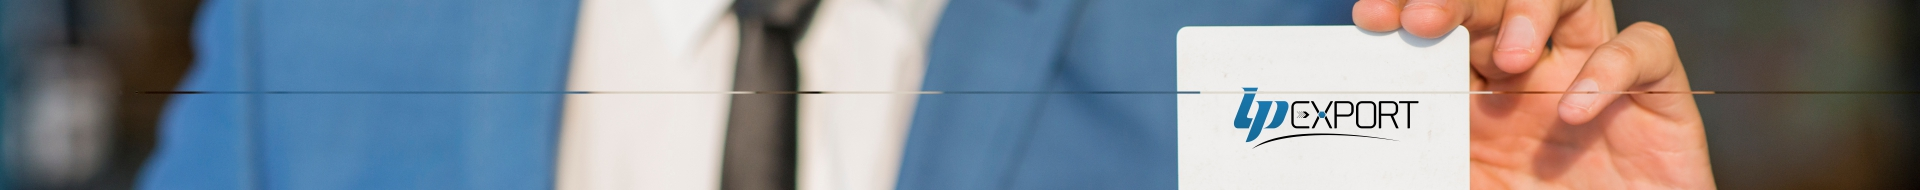
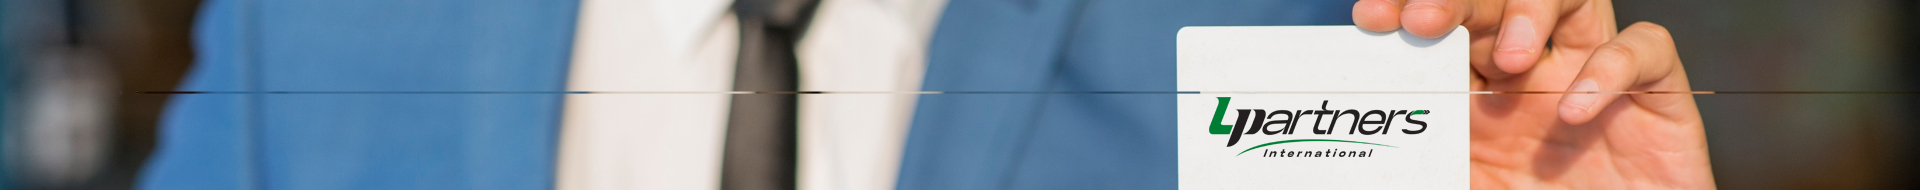
last updates

Changed region(s): [[0.625, 0.4474, 0.75, 0.7895], [0.6562, 0.7895, 0.7188, 0.8421]]

diff --git a/css/style.css b/css/style.css
@@ -1487,7 +1487,7 @@ article #galeria a:hover .over { opacity: 1; }
     border-radius: 50%;
     height: 70px;
     width: 70px;
-    margin: 0 auto 130px;
+    margin: 0 auto 60px;
     text-align: center;
     padding: 17px 10px 0;
     background: #FFF;
@@ -3081,7 +3081,7 @@ footer .logo-footer{width: 180px;}
 
     .header-top{display: none;}
     .waypoint{opacity: 1}
-    .quax-assinatura {border-bottom: 45px solid #007d35;}
+    .quax-assinatura {border-bottom: 15px solid #007d35;}
 
     h1{font-size: 24px; margin: 10px 0; line-height: 28px; letter-spacing: 3px;}
     h2{font-size: 17px; line-height: 25px;}
@@ -3370,7 +3370,8 @@ footer .logo-footer{width: 180px;}
 
     /* FOOTER */
 
-    footer{text-align: center; margin-bottom: 15px;}
+    /* footer{text-align: center; margin-bottom: 15px;} */
+    footer{text-align: center; margin-bottom: 0px;}
     footer .logo-footer{margin: 20px 0;}
     footer .social{position: relative; margin: 70px auto 0;}
     footer h3{margin-bottom: 15px; margin-top: 15px; }

diff --git a/js/main.js b/js/main.js
@@ -172,7 +172,7 @@ jQuery(document).ready(function($)
 				$('header .nav-menu li .sub-produtos').css({'height':'0'});
 				$(this).removeClass('is-active-sub');
 			}else{
-				$('header .nav-menu li .sub-produtos').css({'height':'228'});
+				$('header .nav-menu li .sub-produtos').css({'height':'272'});
 				$(this).addClass('is-active-sub');
 			}
 		});

diff --git a/template/produtos.php b/template/produtos.php
@@ -77,8 +77,13 @@ get_header(); ?>
 							</div>
 						</a>
 						<a href="<?php echo HTTP; ?>produtos/lamb/<?php echo $lang; ?>" title="<?php echo $_lang[$lang]['cordeiro']; ?>">
-							<div class="card-icon <?php echo ($categoria=="lamb"?"active":""); ?>" style="padding-top: 10px;">
+							<div style="padding-top: 15px;" class="card-icon <?php echo ($categoria=="lamb"?"active":""); ?>">
 								<img src="<?php echo HTTP; ?>img/icon-cordeiro.png">
+							</div>
+						</a>
+						<a href="<?php echo HTTP; ?>produtos/turkey/<?php echo $lang; ?>" title="<?php echo $_lang[$lang]['peru']; ?>">
+							<div style="padding-top: 12px;" class="card-icon <?php echo ($categoria=="turkey"?"active":""); ?>">
+								<img src="<?php echo HTTP; ?>img/icon-peru.png">
 							</div>
 						</a>
 					</div>
@@ -183,6 +188,7 @@ get_header(); ?>
 		<div class="wrap">
 
 			<h1 class="waypoint animation_bottom"><?php echo $_lang[$lang]['nossos_produtos']; ?></h1>
+			<p class="has-text-centered waypoint animation_bottom" > <?php echo $_lang[$lang]['melhores_cortes']; ?></p>
 			<br><br>
 			<div class="columns">
 				<div class="column waypoint animation_right">
@@ -191,8 +197,6 @@ get_header(); ?>
 							<img src="<?php echo HTTP; ?>img/icon-beef.png">
 						</div>
 						<h2><?php echo $_lang[$lang]['boi']; ?></h2>
-						<hr>
-						<div class="description"><?php echo $_lang[$lang]['melhores_cortes']; ?></div>
 						<div class="has-text-centered">
 							<div class="botao"><?php echo $_lang[$lang]['ver_mais']; ?></div>
 						</div>
@@ -204,8 +208,6 @@ get_header(); ?>
 							<img src="<?php echo HTTP; ?>img/icon-poltry.png">
 						</div>
 						<h2><?php echo $_lang[$lang]['frango']; ?></h2>
-						<hr>
-						<div class="description"><?php echo $_lang[$lang]['melhores_cortes']; ?></div>
 						<div class="has-text-centered">
 							<div class="botao"><?php echo $_lang[$lang]['ver_mais']; ?></div>
 						</div>
@@ -217,8 +219,6 @@ get_header(); ?>
 							<img src="<?php echo HTTP; ?>img/icon-pork.png">
 						</div>
 						<h2><?php echo $_lang[$lang]['porco']; ?></h2>
-						<hr>
-						<div class="description"><?php echo $_lang[$lang]['melhores_cortes']; ?></div>
 						<div class="has-text-centered">
 							<div class="botao"><?php echo $_lang[$lang]['ver_mais']; ?></div>
 						</div>
@@ -230,8 +230,6 @@ get_header(); ?>
 							<img src="<?php echo HTTP; ?>img/icon-fish.png">
 						</div>
 						<h2><?php echo $_lang[$lang]['peixe']; ?></h2>
-						<hr>
-						<div class="description"><?php echo $_lang[$lang]['melhores_cortes']; ?></div>
 						<div class="has-text-centered">
 							<div class="botao"><?php echo $_lang[$lang]['ver_mais']; ?></div>
 						</div>
@@ -239,12 +237,23 @@ get_header(); ?>
 				</div>
 				<div class="column waypoint animation_bottom">
 					<a href="<?php echo HTTP.'produtos/lamb/'.$lang; ?>" class="has-text-centered card-home-produtos">
-						<div class="card-icon" style="padding-top: 10px;">
+						<div class="card-icon" style="padding-top: 15px;">
 							<img src="<?php echo HTTP; ?>img/icon-cordeiro.png">
 						</div>
 						<h2><?php echo $_lang[$lang]['cordeiro']; ?></h2>
-						<hr>
-						<div class="description"><?php echo $_lang[$lang]['melhores_cortes']; ?></div>
+						<div class="has-text-centered">
+							<div class="botao"><?php echo $_lang[$lang]['ver_mais']; ?></div>
+						</div>
+					</a>
+				</div>
+				<div class="column waypoint animation_bottom">
+					<a href="<?php echo HTTP.'produtos/turkey/'.$lang; ?>" 
+					class="has-text-centered card-home-produtos"
+					>
+						<div class="card-icon"  style="padding-top: 12px;">
+							<img src="<?php echo HTTP; ?>img/icon-peru.png">
+						</div>
+						<h2><?php echo $_lang[$lang]['peru']; ?></h2>
 						<div class="has-text-centered">
 							<div class="botao"><?php echo $_lang[$lang]['ver_mais']; ?></div>
 						</div>

diff --git a/template/index.php b/template/index.php
@@ -75,6 +75,7 @@ get_header();
 		<div class="wrap">
 
 			<h1 class="waypoint animation_bottom"><?php echo $_lang[$lang]['nossos_produtos']; ?></h1>
+			<p class="has-text-centered waypoint animation_bottom" > <?php echo $_lang[$lang]['melhores_cortes']; ?></p>
 			<br><br>
 			<div class="columns">
 				<div class="column waypoint animation_right">
@@ -83,8 +84,6 @@ get_header();
 							<img src="<?php echo HTTP; ?>img/icon-beef.png">
 						</div>
 						<h2><?php echo $_lang[$lang]['boi']; ?></h2>
-						<hr>
-						<div class="description"><?php echo $_lang[$lang]['melhores_cortes']; ?></div>
 						<div class="has-text-centered">
 							<div class="botao"><?php echo $_lang[$lang]['ver_mais']; ?></div>
 						</div>
@@ -96,8 +95,6 @@ get_header();
 							<img src="<?php echo HTTP; ?>img/icon-poltry.png">
 						</div>
 						<h2><?php echo $_lang[$lang]['frango']; ?></h2>
-						<hr>
-						<div class="description"><?php echo $_lang[$lang]['melhores_cortes']; ?></div>
 						<div class="has-text-centered">
 							<div class="botao"><?php echo $_lang[$lang]['ver_mais']; ?></div>
 						</div>
@@ -109,8 +106,6 @@ get_header();
 							<img src="<?php echo HTTP; ?>img/icon-pork.png">
 						</div>
 						<h2><?php echo $_lang[$lang]['porco']; ?></h2>
-						<hr>
-						<div class="description"><?php echo $_lang[$lang]['melhores_cortes']; ?></div>
 						<div class="has-text-centered">
 							<div class="botao"><?php echo $_lang[$lang]['ver_mais']; ?></div>
 						</div>
@@ -122,8 +117,6 @@ get_header();
 							<img src="<?php echo HTTP; ?>img/icon-fish.png">
 						</div>
 						<h2><?php echo $_lang[$lang]['peixe']; ?></h2>
-						<hr>
-						<div class="description"><?php echo $_lang[$lang]['melhores_cortes']; ?></div>
 						<div class="has-text-centered">
 							<div class="botao"><?php echo $_lang[$lang]['ver_mais']; ?></div>
 						</div>
@@ -131,12 +124,21 @@ get_header();
 				</div>
 				<div class="column waypoint animation_bottom">
 					<a href="<?php echo HTTP.'produtos/lamb/'.$lang; ?>" class="has-text-centered card-home-produtos">
-						<div class="card-icon" style="padding-top: 10px;">
+						<div class="card-icon" >
 							<img src="<?php echo HTTP; ?>img/icon-cordeiro.png">
 						</div>
 						<h2><?php echo $_lang[$lang]['cordeiro']; ?></h2>
-						<hr>
-						<div class="description"><?php echo $_lang[$lang]['melhores_cortes']; ?></div>
+						<div class="has-text-centered">
+							<div class="botao"><?php echo $_lang[$lang]['ver_mais']; ?></div>
+						</div>
+					</a>
+				</div>
+				<div class="column waypoint animation_bottom">
+					<a href="<?php echo HTTP.'produtos/turkey/'.$lang; ?>" class="has-text-centered card-home-produtos">
+						<div class="card-icon" style="padding-top: 15px;">
+							<img src="<?php echo HTTP; ?>img/icon-peru.png">
+						</div>
+						<h2><?php echo $_lang[$lang]['peru']; ?></h2>
 						<div class="has-text-centered">
 							<div class="botao"><?php echo $_lang[$lang]['ver_mais']; ?></div>
 						</div>

diff --git a/php/functions.php b/php/functions.php
@@ -1,4 +1,15 @@
 <?php
+function full_url()
+{
+    $s  = ( empty($_SERVER["HTTPS"]) ? '' : ($_SERVER["HTTPS"] == "on"? "s" : ""));
+    $sp = strtolower($_SERVER["SERVER_PROTOCOL"]);
+    $protocol = substr($sp, 0, strpos($sp, "/")) . $s;
+    $port = ($_SERVER["SERVER_PORT"] == "80") ? "" : (":".$_SERVER["SERVER_PORT"]);
+    return $protocol . "://" . $_SERVER['SERVER_NAME'] . $port . $_SERVER['REQUEST_URI'];
+}
+
+
+
 function validElement($element) {
     return strlen($element) > 0;
 }
@@ -1016,6 +1027,7 @@ function get_header() {
 							<li><a href="'.HTTP.'produtos/pork/'.$lang.'">'.$_lang[$lang]['porco'].'</a></li>
 							<li><a href="'.HTTP.'produtos/fish/'.$lang.'">'.$_lang[$lang]['peixe'].'</a></li>
 							<li><a href="'.HTTP.'produtos/lamb/'.$lang.'">'.$_lang[$lang]['cordeiro'].'</a></li>
+							<li><a href="'.HTTP.'produtos/turkey/'.$lang.'">'.$_lang[$lang]['peru'].'</a></li>
 						</ul>
 					</li>
 					<!-- <li>
@@ -1105,6 +1117,7 @@ function get_header() {
 							<li><a href="'.HTTP.'produtos/pork/'.$lang.'">'.$_lang[$lang]['porco'].'</a></li>
 							<li><a href="'.HTTP.'produtos/fish/'.$lang.'">'.$_lang[$lang]['peixe'].'</a></li>
 							<li><a href="'.HTTP.'produtos/lamb/'.$lang.'">'.$_lang[$lang]['cordeiro'].'</a></li>
+							<li><a href="'.HTTP.'produtos/turkey/'.$lang.'">'.$_lang[$lang]['peru'].'</a></li>
 						</ul>
 					</li>
 					<!-- <li>
@@ -1154,6 +1167,7 @@ function get_footer() {
 					<a href="'.HTTP.'produtos/poltry/'.$lang.'" class="link">'.$_lang[$lang]['frango'].'</a>
 					<a href="'.HTTP.'produtos/beef/'.$lang.'" class="link">'.$_lang[$lang]['boi'].'</a>
 					<a href="'.HTTP.'produtos/lamb/'.$lang.'" class="link">'.$_lang[$lang]['cordeiro'].'</a>
+					<a href="'.HTTP.'produtos/turkey/'.$lang.'" class="link">'.$_lang[$lang]['peru'].'</a>
 				</div>
 				<div class="column is-2">
 					<h3>'.$_lang[$lang]['menu_servicos'].'</h3>

diff --git a/q-admin/config.php b/q-admin/config.php
@@ -98,18 +98,18 @@ $style = array();
 $javascript = array('bootstrap.js', 'jquery.tablesorter-pager.js', 'script.admin.js');
 $style = array('css/bootstrap.min.css', 'css/style.css');
 
-// if ( $userClass->usuarioLogado() === false ) {
-// 	header("Location: login.php");
-// 	exit;
-// } else {
-// 	$RequestedPermission = $userClass->acessoPagina();
-// 	if ($RequestedPermission === true ) {
-// 		// NADA
-// 	} else {
-// 		header("Location: index.php?erro=".base64_encode($RequestedPermission));
-// 		exit;
-// 	}
-// }
+if ( $userClass->usuarioLogado() === false ) {
+	header("Location: login.php");
+	exit;
+} else {
+	$RequestedPermission = $userClass->acessoPagina();
+	if ($RequestedPermission === true ) {
+		// NADA
+	} else {
+		header("Location: index.php?erro=".base64_encode($RequestedPermission));
+		exit;
+	}
+}
 
 $autor = $userClass->getId();
 $acessoAutor = $userClass->getAcesso();

diff --git a/php/config.php b/php/config.php
@@ -2,7 +2,7 @@
 setlocale(LC_ALL, 'pt_BR.UTF8');
 
 error_reporting (1);
-//error_reporting (E_ALL);
+// error_reporting(E_ALL & ~(E_STRICT|E_NOTICE|E_WARNING));
 
 if(stristr($_SERVER['DOCUMENT_ROOT'], 'public_html') === FALSE)
 {
@@ -28,7 +28,7 @@ if(LOCALHOST) {
 	define('DB_USER','root');
 	define('DB_PASS','');
 	define('DB_HOST','localhost');
-	define('DB_NAME','lppartners');
+	define('DB_NAME','lpartners');
 	define('PREFIX','adm_');
 
 	/* PATH */
@@ -38,8 +38,8 @@ if(LOCALHOST) {
 } else {
 
 	/* DATABASE */
-	define('DB_USER','lpartners_site');
-	define('DB_PASS','dwODgx(PU+$q');
+	define('DB_USER','lpartners__site');
+	define('DB_PASS','&QQf9+FwWSK%');
 	define('DB_HOST','localhost');
 	define('DB_NAME','lpartners_site');
 	define('PREFIX','adm_');

diff --git a/php/language.php b/php/language.php
@@ -45,7 +45,7 @@ $_lang['es']['menu_estruturacao_frigorificos'] 	 = 'Desarrollo de marcas';
 $_lang['es']['menu_mercado_internacional']		 = 'Presencia en el mercado internacional';
 $_lang['es']['menu_diagnostico_comercializacao'] = 'Trading';
 
-$_lang['pt']['frango'] 			= 'Aves';
+$_lang['pt']['frango'] 			= 'Frango';
 $_lang['en']['frango'] 			= 'Poultry';
 $_lang['es']['frango'] 			= 'Aves';
 
@@ -64,6 +64,10 @@ $_lang['es']['peixe'] 			= 'Pez';
 $_lang['pt']['cordeiro'] 		= 'Cordeiro';
 $_lang['en']['cordeiro'] 		= 'Lamb';
 $_lang['es']['cordeiro'] 		= 'Cordero';
+
+$_lang['pt']['peru'] 			= 'Peru';
+$_lang['en']['peru'] 			= 'Turkey';
+$_lang['es']['peru'] 			= 'Perú';
 
 
 $_lang['pt']['voltar'] 				= 'Voltar';

diff --git a/template/empresa.php b/template/empresa.php
@@ -110,7 +110,7 @@ get_header();
 				</div>
 				<div class="column is-3 has-text-centered waypoint animation_right">
 					<div>
-						<img src="<?php echo HTTP; ?>img/logo-2018-lpexport.jpg"/>
+						<img src="<?php echo HTTP; ?>img/logo-2018-lpartners.jpg"/>
 					</div>
 					<div class="ano">2018</div>
 					<!-- <p class="has-text-justify">Estruturada, a empresa investe maciçamente na participação em Feiras e outros eventos e o resultado é inevitável: as operações crescem 20%, com exportações para 50 países neste ano.</p> -->
